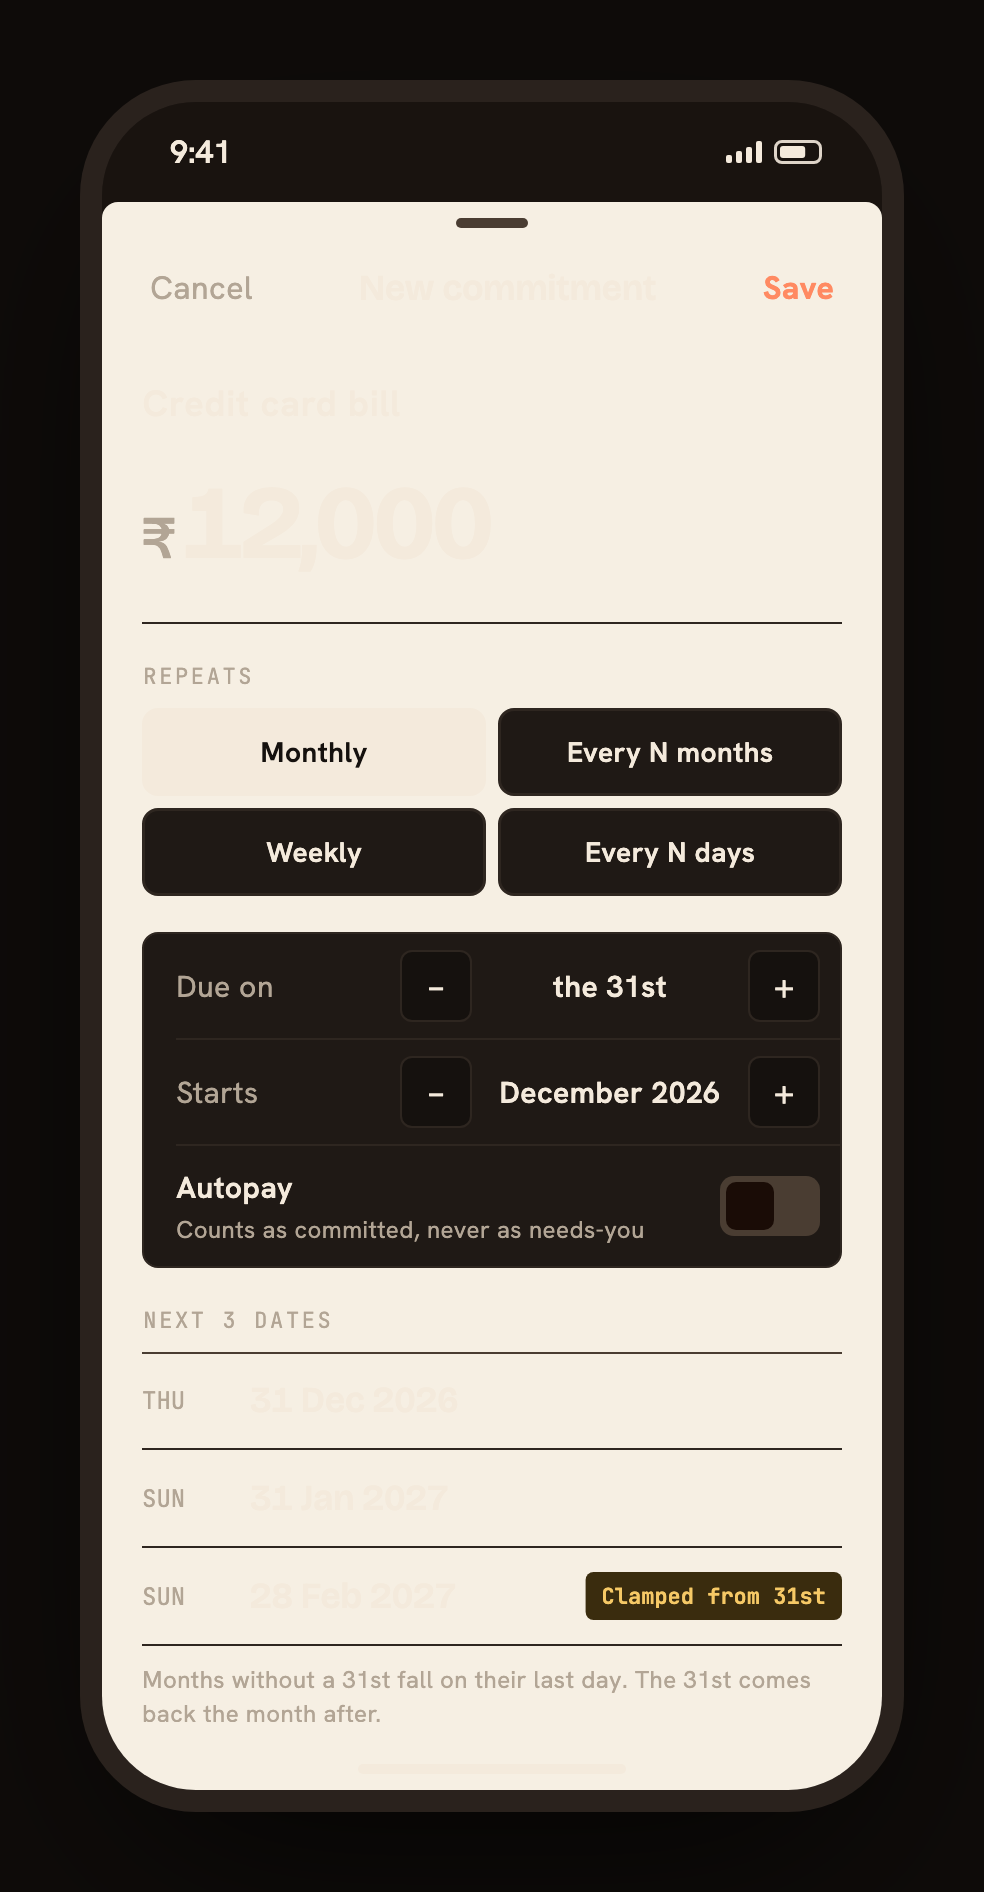
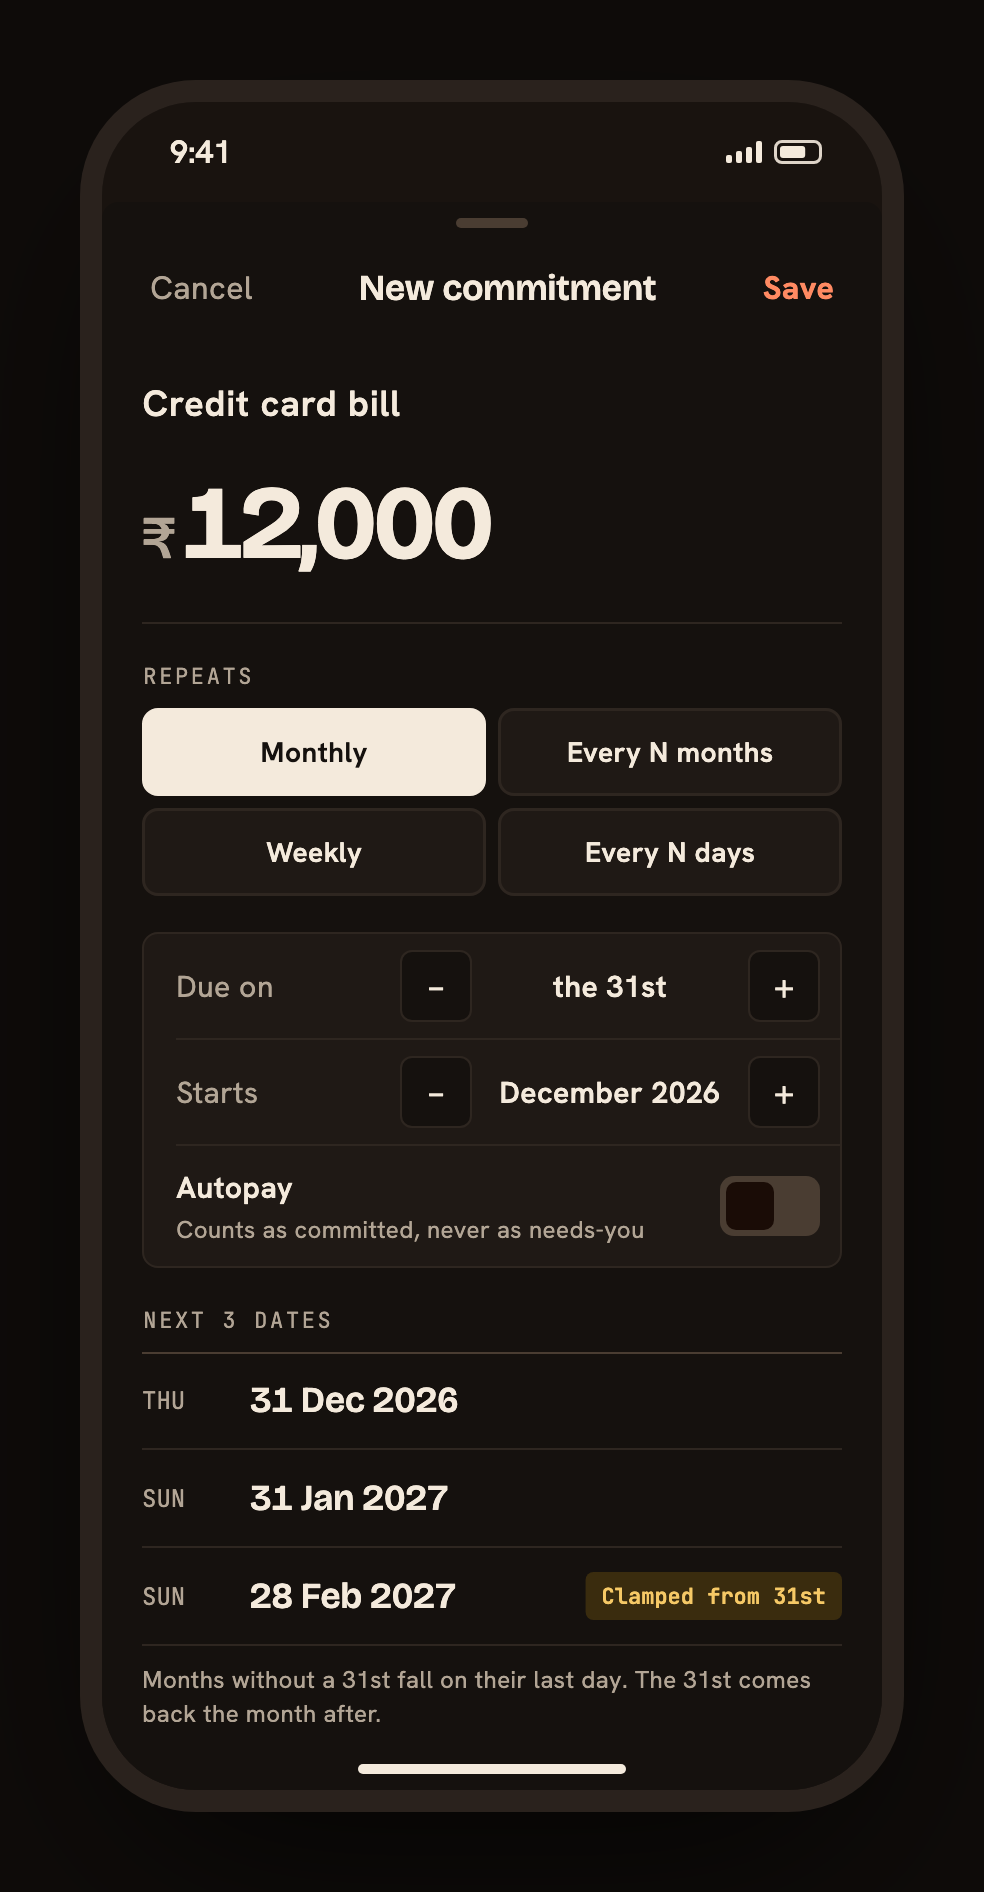
Keep the edit sheet inside its frame and theme

diff --git a/catalog/test/frame_scene_test.dart b/catalog/test/frame_scene_test.dart
@@ -1,0 +1,36 @@
+import 'package:due_catalog/frames/frame_scene.dart';
+import 'package:due_catalog/frames/frame_spec.dart';
+import 'package:due_kit/due_kit.dart';
+import 'package:flutter/material.dart';
+import 'package:flutter_test/flutter_test.dart';
+
+void main() {
+  // In the catalog a frame is a small part of a large window, and the browser
+  // may be in dark mode. The frame must still behave like its own device.
+  testWidgets('1e opens its sheet as a phone sheet, in light, inside a large dark window', (tester) async {
+    tester.view
+      ..devicePixelRatio = 1
+      ..physicalSize = const Size(1600, 1200);
+    tester.platformDispatcher.platformBrightnessTestValue = Brightness.dark;
+    addTearDown(tester.view.reset);
+    addTearDown(tester.platformDispatcher.clearPlatformBrightnessTestValue);
+
+    final spec = frames.firstWhere((f) => f.id == '1e');
+    // Widgetbook hosts frames inside its own app.
+    await tester.pumpWidget(MaterialApp(home: Center(child: FrameScene(spec))));
+    for (var i = 0; i < 4; i++) {
+      await tester.pump(const Duration(milliseconds: 50));
+    }
+    await tester.pumpAndSettle();
+
+    expect(find.byType(Dialog), findsNothing);
+    final sheet = find.byType(BottomSheet);
+    expect(sheet, findsOneWidget);
+    expect(tester.getSize(sheet).width, spec.kind.size.width);
+    final paper = Theme.of(tester.element(find.text('Credit card bill'))).bottomSheetTheme.modalBackgroundColor;
+    expect(paper, DuePalette.light.paper);
+
+    await tester.pump(const Duration(seconds: 5));
+    await tester.pumpAndSettle();
+  });
+}

diff --git a/app/lib/features/edit/edit_sheet.dart b/app/lib/features/edit/edit_sheet.dart
@@ -12,18 +12,18 @@ import 'edit_form.dart';
 /// Opens the add/edit sheet: a bottom sheet on a phone, a centred dialog on
 /// a wide window (frames 1e, 1j).
 Future<void> showEditSheet(BuildContext context, {EditForm? initial, Commitment? editing}) {
-  final p = DueTheme.of(context);
   final wide = MediaQuery.sizeOf(context).width >= DueSize.wideBreakpoint;
   final sheet = EditSheet(initial: initial ?? (editing == null ? null : EditForm.from(editing)));
+  // Colours come from the theme (see dueThemeData), not from this context,
+  // so the sheet follows a theme that changes while it is open.
   if (wide) {
     return showDialog<void>(
       context: context,
-      barrierColor: p.scrim,
-      builder: (_) => Center(
+      builder: (context) => Center(
         child: SizedBox(
           width: DueSize.sheetWide,
           child: Material(
-            color: p.paper,
+            color: DueTheme.of(context).paper,
             borderRadius: BorderRadius.circular(DueRadius.card),
             clipBehavior: Clip.antiAlias,
             child: sheet,
@@ -36,9 +36,6 @@ Future<void> showEditSheet(BuildContext context, {EditForm? initial, Commitment?
     context: context,
     isScrollControlled: true,
     useSafeArea: true,
-    backgroundColor: p.paper,
-    barrierColor: p.scrim,
-    shape: const RoundedRectangleBorder(borderRadius: BorderRadius.vertical(top: Radius.circular(DueRadius.card))),
     builder: (_) => sheet,
   );
 }

diff --git a/packages/due_kit/lib/src/foundation/theme.dart b/packages/due_kit/lib/src/foundation/theme.dart
@@ -53,6 +53,15 @@ ThemeData dueThemeData(Brightness brightness) {
     splashFactory: NoSplash.splashFactory,
     highlightColor: Colors.transparent,
     textSelectionTheme: TextSelectionThemeData(cursorColor: p.accent, selectionColor: p.accentTint),
+    // Sheets and dialogs read their colours here, from the route's own
+    // context, so an open one follows a theme change.
+    bottomSheetTheme: BottomSheetThemeData(
+      backgroundColor: p.paper,
+      modalBackgroundColor: p.paper,
+      modalBarrierColor: p.scrim,
+      shape: const RoundedRectangleBorder(borderRadius: BorderRadius.vertical(top: Radius.circular(DueRadius.card))),
+    ),
+    dialogTheme: DialogThemeData(barrierColor: p.scrim),
     extensions: [due],
   );
 }

diff --git a/catalog/lib/frames/frame_scene.dart b/catalog/lib/frames/frame_scene.dart
@@ -66,7 +66,9 @@ class _FrameSceneState extends State<FrameScene> {
         child: DueApp(
           router: buildRouter(initialLocation: spec.preset.location, navigatorKey: _navigator),
           wrap: (context, child) {
-            final mq = MediaQuery.of(context);
+            // The app reads its screen size from MediaQuery, which starts as
+            // the whole window; inside a frame the screen is the frame.
+            final mq = MediaQuery.of(context).copyWith(size: spec.kind.size);
             final framed = spec.kind == FrameKind.phone && widget.chrome
                 ? mq.copyWith(padding: PhoneFrame.safeArea, viewPadding: PhoneFrame.safeArea)
                 : mq;
